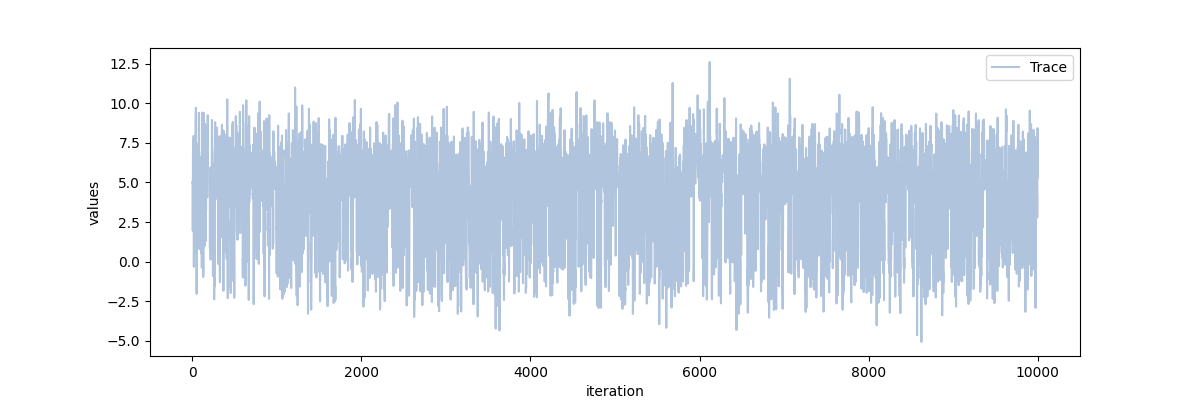
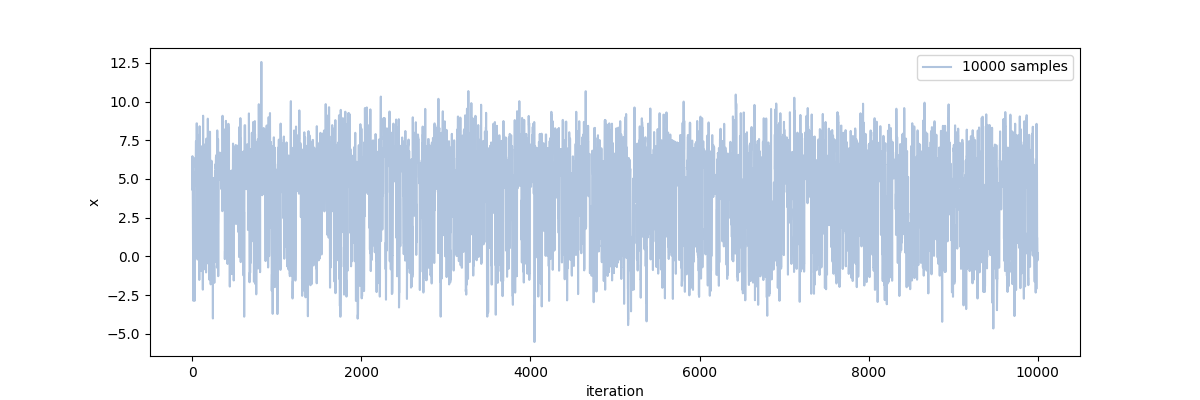
Changes to HMC

diff --git a/Chapter3/HMC.py b/Chapter3/HMC.py
@@ -10,7 +10,6 @@ import sympy as sp
 from scipy.integrate import quad
 import matplotlib.pyplot as plt
 import sys
-from functools import cache
 
 def target(q):
     if isinstance(q, sp.Symbol):
@@ -34,7 +33,7 @@ class HMC:
 
         Atributes
         ---------
-        target : Target function to sample from (must also accept sympy.Symbol)
+        target : Target function (must also be able to accept sympy.Symbol)
         n_div  : Number of divergent samples in MCMC run
         n_acc  : Number of accepted samples
         trace  : Chain of samples
@@ -43,32 +42,31 @@ class HMC:
         self.n_div = 0
         self.n_acc = 0
         self.trace = []
+        self.dU = self.diff_U(target_func)
     
     def hamiltonian(self, q, p):
         return p**2/2 - np.log(self.target(q))
     
-    @cache
-    def diff_U(self):
+    def diff_U(self, target):
         x = sp.Symbol('x')
-        dU = sp.diff(-sp.ln(self.target(x)))
-        return dU
+        dU = sp.diff(-sp.ln(target(x)))
+        return sp.lambdify(x, dU, 'numpy')
     
-    def HMC_step(self, q_cur, ε=1.2, L=10):
+    def HMC_step(self, q_cur, ε=0.5, L=16):
         p_cur = np.random.normal(0, 1)
         q = q_cur
         p = p_cur
 
         #Leapfrog integration
-        x = sp.Symbol('x')
-        for i in range(L):
-            p = p - ε/2*float(self.diff_U().evalf(subs={x: q}))
+        for _ in range(L):
+            p = p - ε/2*self.dU(q)
             q = q + ε*p
-            p = p - ε/2*float(self.diff_U().evalf(subs={x: q}))
+            p = p - ε/2*self.dU(q)
         p = -p
 
         H_cur  = self.hamiltonian(q_cur, p_cur)
         H_prop = self.hamiltonian(q, p) 
-        if abs(H_cur - H_prop) > abs(0.5*H_cur):
+        if abs(H_cur - H_prop) > abs(0.2*H_cur):
             self.n_div += 1
             
         #Accept or Reject
@@ -90,25 +88,34 @@ class HMC:
         return
 
 def main():
-    n_samples = 10000 
+    n_samples = 20000
     model = HMC(target)
     model.sample(n=n_samples, q_init=5)
     chain = np.array(model.trace)
-    
-    #Plot Histogram
-    x = np.linspace(-10, 20, 200)
-    label = 'Proposal $\\propto 0.3e^{-0.2x^2} + 0.7e^{-0.2(x-6)^2}$'
     target_norm, _ = quad(target, -np.inf, np.inf)
-    yMax = 2.8/2*np.max(target(x)/target_norm)
-    acc  = round(model.n_acc/n_samples, 2)
+    
+    #Plot Histograms
+    label = 'target'
+    x = np.linspace(-10, 20, 200)
+    yMax = 2.8/2*np.max(target(x)/target_norm) 
 
-    plt.figure()
-    plt.hist(chain, bins=60, density=True, color='lightsteelblue')
-    plt.plot(x, target(x)/target_norm, color='royalblue', label=label) 
-    plt.ylim(0, yMax)
-    plt.xlabel('x')
-    plt.legend()
-    plt.text(x=10, y=yMax/2, s=f'Samples: {n_samples}\nAcceptance rate: {acc}')
+    fig, axs = plt.subplots(2, 2, figsize=(10,8))
+    n = [500, 1000, 10000, 20000]
+    a = [(0,0), (0,1), (1,0), (1,1)]
+    for i in range(4):
+        txt = f'Samples: {n[i]}'
+        axs[a[i]].hist(chain[:n[i]], bins=60,
+                       density=True, color='lightsteelblue')
+        axs[a[i]].plot(x, target(x)/target_norm,
+                       color='royalblue', label=label)
+        axs[a[i]].set_ylim(0, yMax)
+        axs[a[i]].set_xlabel('x')
+        axs[a[i]].legend(fontsize="small")
+        if n[i] == n[-1]: 
+            txt2 = f'\nAcceptance rate: {round(model.n_acc/n_samples, 2)}'
+            axs[a[i]].text(x=9, y=yMax/2, s=txt+txt2 , fontsize="small")
+        else:
+            axs[a[i]].text(x=9, y=yMax/2, s=txt , fontsize="small")
     plt.savefig('HMC.png')
 
     #Plot Trace

diff --git a/Chapter3/RWM.py b/Chapter3/RWM.py
@@ -15,7 +15,7 @@ def main():
 
     target_norm, _ = quad(target, -np.inf, np.inf)
     propsal_width  = 5
-    n_samples = 10000
+    n_samples = 100_000
     x_current = 5
     iteration = []
     n_acc = 0
@@ -37,24 +37,35 @@ def main():
             chain.append(x_current)
 
     #Plot Histogram
-    label = 'Proposal $\\propto 0.3e^{-0.2x^2} + 0.7e^{-0.2(x-6)^2}$'
-    txt = f'Samples: {n_samples}\nAcceptance rate: {round(n_acc/n_samples, 2)}'
+    label = 'target'
     x = np.linspace(-10, 20, 200)
     yMax = 2.8/2*np.max(target(x)/target_norm) 
-    plt.figure()
-    plt.hist(chain, bins=60, density=True, color='lightsteelblue')
-    plt.plot(x, target(x)/target_norm, color='royalblue', label=label)
-    plt.ylim(0, yMax)
-    plt.xlabel('x')
-    plt.legend()
-    plt.text(x=10, y=yMax/2, s=txt)
+
+    fig, axs = plt.subplots(2, 2, figsize=(10,8))
+    n = [1000, 10_000, 50_000, 100_000]
+    a = [(0,0), (0, 1), (1, 0), (1, 1)]
+    for i in range(4):
+        txt = f'Samples: {n[i]}'
+        axs[a[i]].hist(chain[:n[i]], bins=60,
+                       density=True, color='lightsteelblue')
+        axs[a[i]].plot(x, target(x)/target_norm,
+                       color='royalblue', label=label)
+        axs[a[i]].set_ylim(0, yMax)
+        axs[a[i]].set_xlabel('x')
+        axs[a[i]].legend(fontsize="small")
+        if n[i] == n[-1]: 
+            txt2 = f'\nAcceptance rate: {round(n_acc/n_samples, 2)}'
+            axs[a[i]].text(x=9.5, y=yMax/2, s=txt+txt2 , fontsize="small")
+        else:
+            axs[a[i]].text(x=9.5, y=yMax/2, s=txt , fontsize="small")
     plt.savefig('RWM.png')
 
     #Plot Trace
     plt.figure(figsize=(12,4))
-    plt.plot(iteration, chain, color='lightsteelblue', label='Trace')
+    plt.plot(iteration[:10000], chain[:10000],
+             color='lightsteelblue', label='10000 samples')
     plt.xlabel('iteration')
-    plt.ylabel('values')
+    plt.ylabel('x')
     plt.legend()
     plt.savefig('Trace_RWM.png')
 
